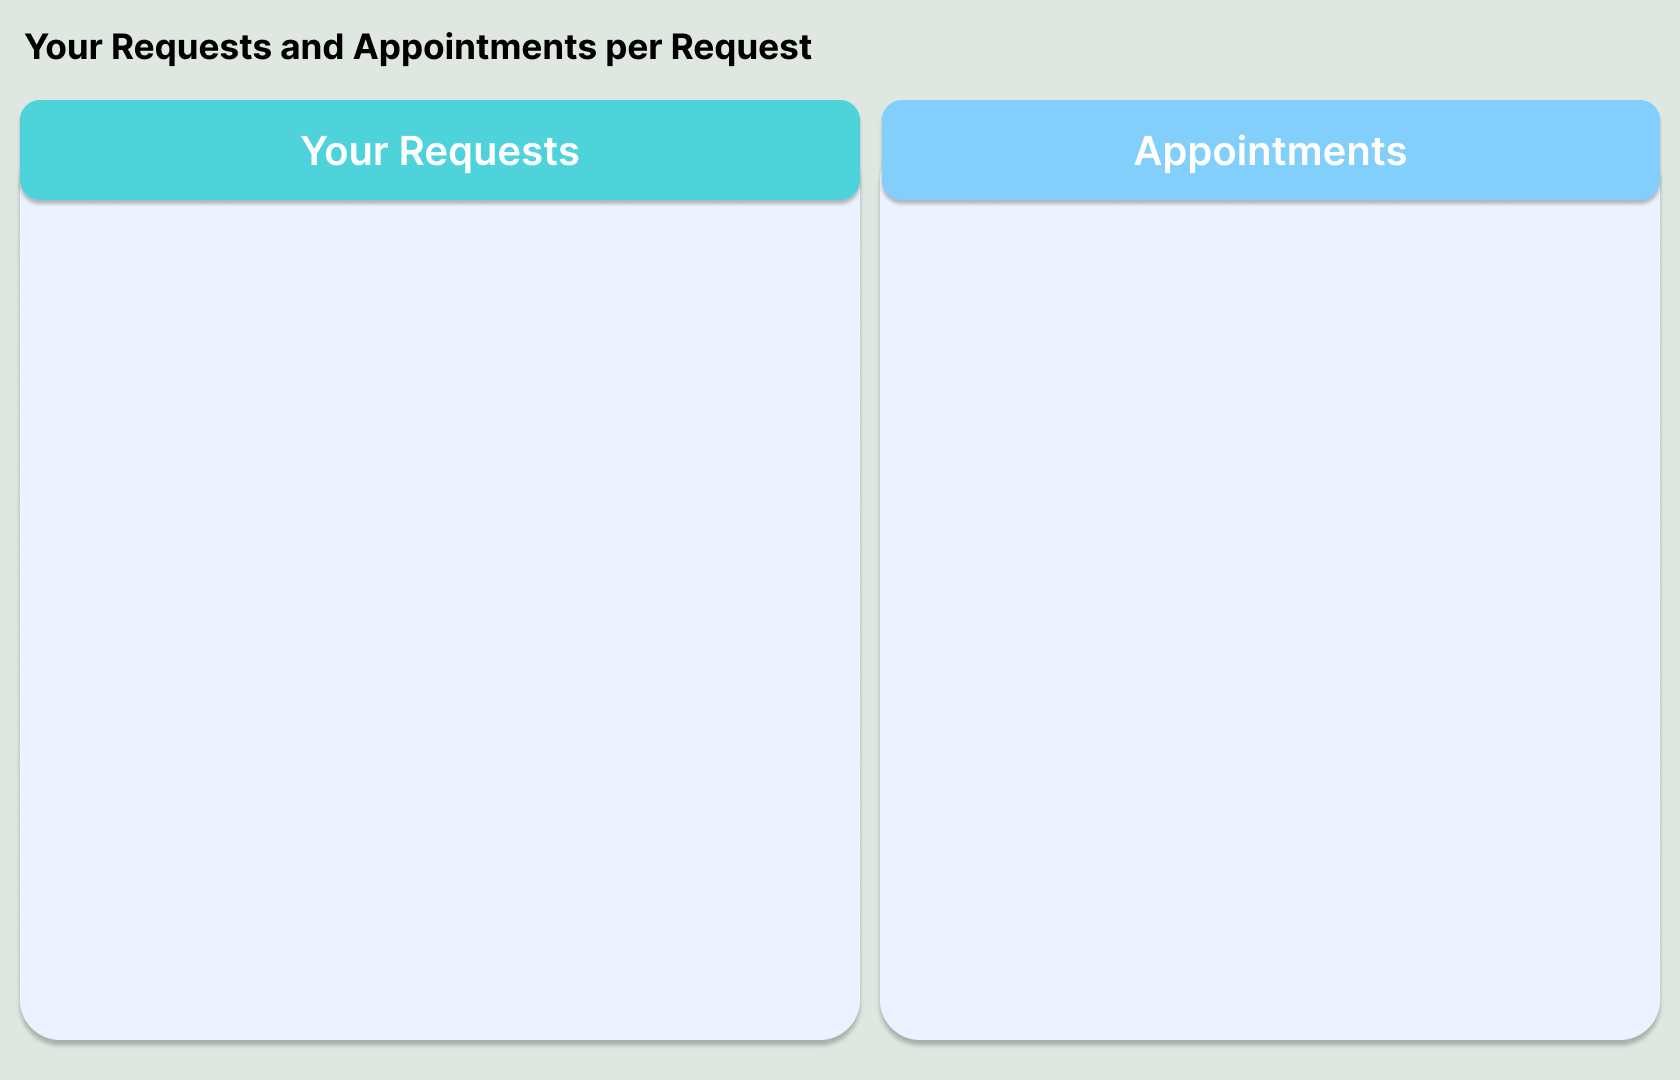
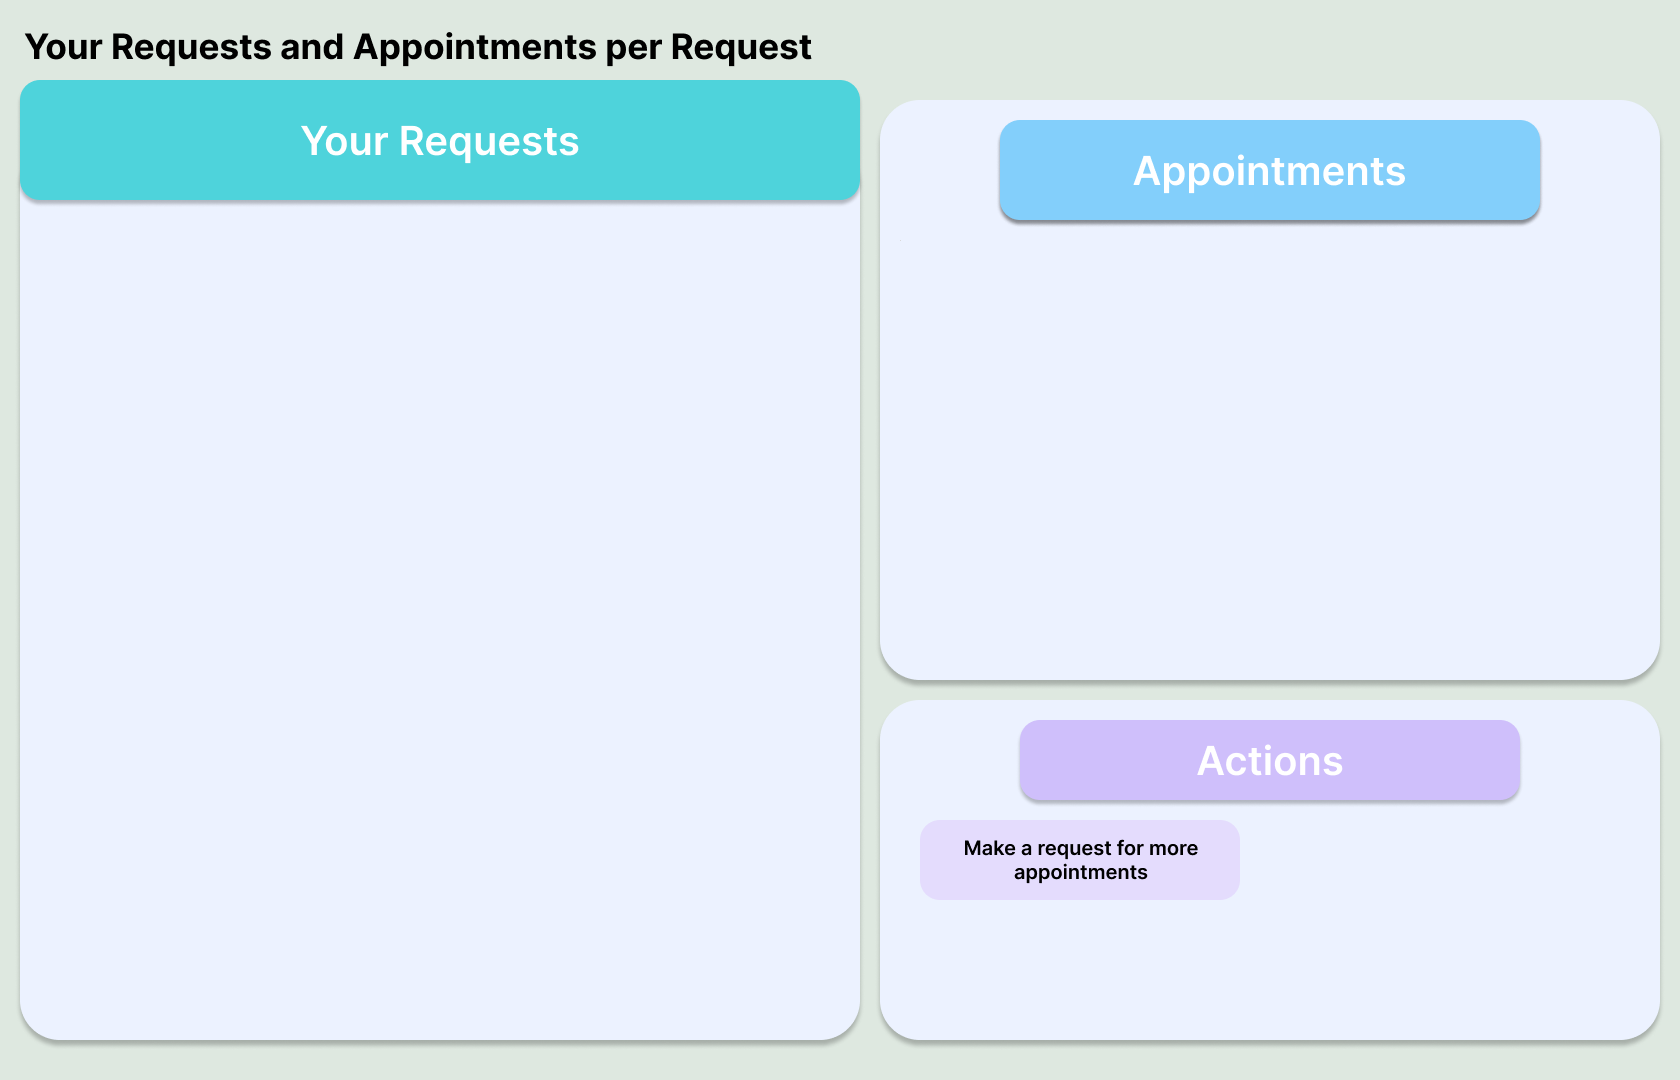
patient dashboard view app request

diff --git a/views/appointments/patientViewAppointments.py b/views/appointments/patientViewAppointments.py
@@ -40,6 +40,10 @@ class PatientViewAppointments(Frame):
 
     def createElements(self):
         self.createLabels()
+        self.createButtons()
+
+    def reloadPage(self):
+        self.loadAppRequests()
 
     def createLabels(self):
         self.controller.labelCreator(
@@ -47,15 +51,43 @@ class PatientViewAppointments(Frame):
             x=0, y=0, classname="appointmentspanelbg", root=self
         )
 
+    def createButtons(self):
+        self.reloadPageButton = self.controller.buttonCreator(
+            ipath="assets/Appointments/Patient/Refresh.png",
+            x=700, y=100, classname="view_apprequest_reload_page", root=self,
+            buttonFunction=lambda: [
+                self.controller.threadCreator(
+                    target=self.reloadPage
+                )
+            ],
+        )
+
     def loadAppRequests(self):
+        prisma = self.prisma
         self.patient = self.parent.primarypanel.patient
-        height = len(self.patient.madeAppRequests) * 320
+        all_requests = prisma.appointmentrequest.find_many(
+            where={"patientId": self.patient.id},
+            include={
+                "clinic": True,
+                "appointments": {
+                    "include": {
+                        "doctor": {
+                            "include": {
+                                "user": True,
+                            }
+                        },
+                        "prescription": True,
+                    }
+                },
+            },
+        )
+        height = len(all_requests) * 320
         self.appRequestScrolledFrame = self.controller.scrolledFrameCreator(
             x=20, y=220, width=840, maxheight=height, minheight=780,
             root=self
         )
         COORDS = (20, 20)
-        for req in self.patient.madeAppRequests:
+        for i, req in list(enumerate(all_requests)):
             X = COORDS[0]
             Y = COORDS[1]
             R = self.appRequestScrolledFrame
@@ -68,6 +100,14 @@ class PatientViewAppointments(Frame):
                 isPlaced=True,
                 # buttonFunction=lambda req=req: self.loadSingleAppointment(
                 #     req),
+            )
+            self.controller.scrolledTextCreator(
+                x=X+260, y=Y, width=60, height=40, root=R,
+                classname=f"req_number_{req.id}",
+                bg="#a8ebee", hasBorder=False,
+                text=f"#{i+1}", font=FONT, fg=BLACK,
+                isDisabled=True, isJustified=True,
+                hasVbar=False,
             )
             img = self.controller.decodingBase64Data(req.clinic.clinicImg)
             img = ImageOps.contain(img, (200, 200), Image.Resampling.BICUBIC)
@@ -152,13 +192,14 @@ class PatientViewAppointments(Frame):
                 ipath="assets/Appointments/Patient/ViewAppointments.png",
                 x=X+720, y=Y+20, classname=f"{req.id}_viewappointments", root=R,
                 isPlaced=True,
-                buttonFunction=lambda r=req: self.loadSingleAppointment(r),
+                buttonFunction=lambda r=req, i=i+1: self.viewApptsPerRequest(
+                    r, i),
             )
             self.controller.scrolledTextCreator(
                 x=X+735, y=Y+25, width=50, height=50, root=R,
                 classname=f"req_appointments_created_{req.id}",
-                bg=BG, hasBorder=False,
-                text=f"{len(req.appointments)}", font=FONT, fg=BLACK,
+                bg="#86cff5", hasBorder=False,
+                text=f"{len(req.appointments)}", font=FONT, fg=WHITE,
                 isDisabled=True, isJustified=True,
                 hasVbar=False,
             )
@@ -170,8 +211,97 @@ class PatientViewAppointments(Frame):
             )
             COORDS = (COORDS[0], COORDS[1] + 320)
 
-    def loadSingleAppointment(self, req: AppointmentRequest):
-        print(req.id)
+    def viewApptsPerRequest(self, req: AppointmentRequest, reqIndex: int):
+        height = len(req.appointments) * 220
+        self.appRequestScrolledFrame = self.controller.scrolledFrameCreator(
+            x=880, y=240, width=780, maxheight=height, minheight=400,
+            root=self
+        )
+        COORDS = (20, 0)
+        for i, appt in list(enumerate(req.appointments)):
+            X = COORDS[0]
+            Y = COORDS[1]
+            R = self.appRequestScrolledFrame
+            FONT = ("Inter", 14)
+            BG = "#ffffff"
+            DOC = appt.doctor
+            start_date = appt.startTime.strftime("%d/%m/%y")
+            end_date = appt.endTime.strftime("%d/%m/%y")
+            start_time = appt.startTime.strftime("%I:%M%p")
+            end_time = appt.endTime.strftime("%I:%M%p")
+            disp_date = f"{start_date} - {end_date}"
+            disp_time = f"{start_time} - {end_time}"
+            self.controller.labelCreator(
+                ipath="assets/Appointments/Patient/AppointmentBG.png",
+                x=X, y=Y, classname=f"{appt.id}_app_bg", root=R,
+                isPlaced=True,
+                # buttonFunction=lambda req=req: self.loadSingleAppointment(
+                #     req),
+            )
+            # Appointment Count
+            self.controller.scrolledTextCreator(
+                x=X+20, y=Y, width=620, height=40, root=R,
+                classname=f"appt_count_{appt.id}",
+                bg="#bbe6fd", hasBorder=False,
+                text=f"Appointment #{i+1} for Request #{reqIndex}", font=("Inter Bold", 15), fg=BLACK,
+                isDisabled=True, isJustified=True, justification="left",
+                hasVbar=False,
+            )
+
+            # Date
+            self.controller.scrolledTextCreator(
+                x=X+80, y=Y+40, width=180, height=60, root=R,
+                classname=f"appt_date_{appt.id}",
+                bg=BG, hasBorder=True, borderColor=BLACK,
+                text=disp_date, font=FONT, fg=BLACK,
+                isDisabled=True, isJustified=True, justification="left",
+                hasVbar=False,
+            )
+            # Time
+            self.controller.scrolledTextCreator(
+                x=X+340, y=Y+40, width=180, height=60, root=R,
+                classname=f"appt_time_{appt.id}",
+                bg=BG, hasBorder=True, borderColor=BLACK,
+                text=disp_time, font=("Inter", 12), fg=BLACK,
+                isDisabled=True, isJustified=True, justification="left",
+                hasVbar=False,
+            )
+            # Doctor Name
+            self.controller.scrolledTextCreator(
+                x=X+80, y=Y+120, width=180, height=60, root=R,
+                classname=f"appt_doctor_{appt.id}\n{DOC.speciality}",
+                bg=BG, hasBorder=True, borderColor=BLACK,
+                text=DOC.user.fullName, font=FONT, fg=BLACK,
+                isDisabled=True, isJustified=True, justification="left",
+                hasVbar=False,
+            )
+            # Status Of Appointment
+            self.controller.scrolledTextCreator(
+                x=X+340, y=Y+120, width=180, height=60, root=R,
+                classname=f"appt_status_{appt.id}",
+                bg=BG, hasBorder=True, borderColor=BLACK,
+                text=appt.status, font=FONT, fg=BLACK,
+                isDisabled=True, isJustified=True, justification="left",
+                hasVbar=False,
+            )
+            # Go to Prescriptions for this Appointment
+            self.controller.buttonCreator(
+                ipath="assets/Appointments/Patient/ViewPrescriptions.png",
+                x=X+660, y=Y+50, classname=f"{appt.id}_viewprescriptions", root=R,
+                isPlaced=True,
+                buttonFunction=lambda a=appt: self.viewPrescriptions(a),
+            )
+            self.controller.scrolledTextCreator(
+                x=X+675, y=Y+55, width=50, height=50, root=R,
+                classname=f"appt_prescriptions_{appt.id}",
+                bg="#ccc3f7", hasBorder=False,
+                text=f"{len(appt.prescription)}", font=FONT, fg=WHITE,
+                isDisabled=True, isJustified=True,
+                hasVbar=False,
+            )
 
     def cancelRequest(self, req: AppointmentRequest):
         print(req.id)
+
+    def viewPrescriptions(self, appt: Appointment):
+        self.parent.primarypanel.loadViewPatients()

diff --git a/views/dashboard/patientDashboard.py b/views/dashboard/patientDashboard.py
@@ -15,6 +15,7 @@ from tkinter import messagebox
 from prisma.models import Patient
 import tkintermapview
 from pendulum import timezone
+from PIL import Image, ImageTk, ImageOps
 from ttkbootstrap.constants import *
 from ttkbootstrap.dialogs import Messagebox, MessageDialog, Querybox
 from ttkbootstrap.dialogs.dialogs import DatePickerDialog
@@ -62,7 +63,11 @@ class PatientDashboard(Frame):
                         "clinic": True,
                         "appointments": {
                             "include": {
-                                "doctor": True,
+                                "doctor": {
+                                    "include": {
+                                        "user": True,
+                                    }
+                                },
                                 "prescription": True,
                             }
                         }
@@ -102,6 +107,7 @@ class PatientDashboard(Frame):
             buttonFunction=lambda: [self.loadViewAppointments()],
         )
         self.loadDashboardButtons()
+        self.load_latest_appointment_request()
 
     def loadDashboardButtons(self):
         CREATOR = self.controller.buttonCreator
@@ -147,18 +153,138 @@ class PatientDashboard(Frame):
                 R: self,
                 BF: lambda: [self.loadViewPatients()]
             },
-            "dash_manage_profile": {
-                IP: "assets/Dashboard/PatientAssets/PatientDashboard/ManageCallADoctorProfile.png",
-                X: 1180,
-                Y: 240,
-                CN: "dash_manage_profile",
-                R: self,
-                BF: lambda: [self.loadViewPatients()]
-            }
+            # "dash_manage_profile": {
+            #     IP: "assets/Dashboard/PatientAssets/PatientDashboard/ManageCallADoctorProfile.png",
+            #     X: 1180,
+            #     Y: 240,
+            #     CN: "dash_manage_profile",
+            #     R: self,
+            #     BF: lambda: [self.loadViewPatients()]
+            # }
         }
         for param in params:
             CREATOR(**params[param])
 
+    def load_latest_appointment_request(self):
+        prisma = self.prisma
+        app_req = prisma.appointmentrequest.find_many(
+            where={
+                "patientId": self.patient.id,
+            },
+            include={
+                "clinic": True,
+                "appointments": {
+                    "include": {
+                        "doctor": {
+                            "include": {
+                                "user": True,
+                            }
+                        },
+                        "prescription": True,
+                    }
+                }
+            },
+            order={"createdAt": "desc"},
+            take=1
+        )
+        req = app_req[0]
+        clinic = req.clinic
+        R = self
+        BG = "#ffffff"
+        FONT = ("Inter", 14)
+        img = self.controller.decodingBase64Data(req.clinic.clinicImg)
+        img = ImageOps.contain(img, (200, 200), Image.Resampling.BICUBIC)
+        self.clinicImage = self.controller.buttonCreator(
+            x=620, y=180, classname=f"dash_req_loadedclinic_image_{req.id}", root=R,
+            ipath="assets/BrowseClinic/Patient/BrowseSingleClinic/ClinicImagePlaceholder.png",
+            bg="#ffffff",
+            isPlaced=True,
+        )
+        self.controller.imageDict[f"dash_req_loadedclinic_image_{req.id}"] = ImageTk.PhotoImage(
+            img
+        )
+        newImage = self.controller.imageDict[f"dash_req_loadedclinic_image_{req.id}"]
+        self.clinicImage.configure(image=newImage, width=200, height=200)
+        self.clinicImage.place(x=620, y=180, width=200, height=200)
+
+        self.controller.scrolledTextCreator(
+            x=700, y=400, width=120, height=60, root=R,
+            classname=f"dash_req_loadedclinic_name_{req.id}",
+            bg=BG, hasBorder=False,
+            text=clinic.name, font=FONT, fg=BLACK,
+            isDisabled=True, isJustified=True,
+            hasVbar=False,
+        )
+        # # Status
+        self.controller.scrolledTextCreator(
+            x=940, y=400, width=120, height=60, root=R,
+            classname=f"dash_req_status_{req.id}",
+            bg=BG, hasBorder=False,
+            text=f"{req.reqStatus}", font=FONT, fg=BLACK,
+            isDisabled=True, isJustified=True, justification="left",
+            hasVbar=False,
+        )
+        # # Speciality Wanted & Additional Info
+        self.controller.scrolledTextCreator(
+            x=700, y=480, width=360, height=60, root=R,
+            classname=f"dash_req_speciality_{req.id}",
+            bg=BG, hasBorder=False,
+            text=f"{req.specialityWanted}\n{req.additionalInfo}", font=FONT, fg=BLACK,
+            isDisabled=True, isJustified=True, justification="left",
+            hasVbar=False,
+        )
+        # # Preferred Date
+        self.controller.scrolledTextCreator(
+            x=700, y=560, width=360, height=40, root=R,
+            classname=f"dash_req_preferred_date_{req.id}",
+            bg=BG, hasBorder=False,
+            text=f"{req.preferredDate}", font=FONT, fg=BLACK,
+            isDisabled=True, isJustified=True, justification="left",
+            hasVbar=False,
+        )
+        # Preferred Time
+        self.controller.scrolledTextCreator(
+            x=700, y=620, width=360, height=40, root=R,
+            classname=f"dash_req_preferred_time_{req.id}",
+            bg=BG, hasBorder=False,
+            text=f"{req.preferredTime}", font=FONT, fg=BLACK,
+            isDisabled=True, isJustified=True, justification="left",
+            hasVbar=False,
+        )
+        # Created Ago
+        KL = timezone("Asia/Kuala_Lumpur")
+        created = KL.convert(req.createdAt)
+        now = KL.convert(datetime.now())
+        timedelta = now - created
+        if timedelta.days > 0:
+            diffText = f"{timedelta.days} days ago"
+        elif timedelta.seconds//3600 > 0:
+            diffText = f"{timedelta.seconds//3600} hours ago"
+        elif timedelta.seconds//60 > 0:
+            diffText = f"{timedelta.seconds//60} minutes ago"
+        else:
+            diffText = f"{timedelta.seconds} seconds ago"
+        self.controller.scrolledTextCreator(
+            x=860, y=200, width=200, height=40, root=R,
+            classname=f"dash_req_created_ago_{req.id}",
+            bg=BG, hasBorder=False,
+            text=diffText, font=FONT, fg=BLACK,
+            isDisabled=True, isJustified=True,
+            hasVbar=False,
+        )
+        self.controller.buttonCreator(
+            ipath="assets/Dashboard/PatientAssets/PatientDashboard/ViewAppointmentsDashMiddle.png",
+            x=860, y=280, classname=f"dash_{req.id}_viewappointments", root=R,
+            isPlaced=True,
+        )
+        self.controller.scrolledTextCreator(
+            x=875, y=285, width=50, height=50, root=R,
+            classname=f"dash_req_appointments_created_{req.id}",
+            bg="#86cff5", hasBorder=False,
+            text=f"{len(req.appointments)}", font=FONT, fg=WHITE,
+            isDisabled=True, isJustified=True,
+            hasVbar=False,
+        )
     def loadBrowseClinic(self):
         try:
             self.mainInterface.primarypanel.grid()

diff --git a/views/browseClinic/patientBrowse.py b/views/browseClinic/patientBrowse.py
@@ -166,14 +166,17 @@ class PatientBrowseClinic(Frame):
             self.latitudes[clinic.id] = {}
             self.latitudes[clinic.id]["latitude"] = clinicCoordinates.latitude
             self.latitudes[clinic.id]["longitude"] = clinicCoordinates.longitude
-            self.clinicsMap.set_marker(
-                self.latitudes[clinic.id]["latitude"],
-                self.latitudes[clinic.id]["longitude"],
-                text=clinic.name,
-                command=lambda event, c=clinic: [
-                    self.doubleClickTracker(c)
-                ]
-            )
+            try:
+                self.clinicsMap.set_marker(
+                    self.latitudes[clinic.id]["latitude"],
+                    self.latitudes[clinic.id]["longitude"],
+                    text=clinic.name,
+                    command=lambda event, c=clinic: [
+                        self.doubleClickTracker(c)
+                    ]
+                )
+            except:
+                pass
             self.latitudes[clinic.id]["distance"] = round(GD((
                 self.latitudes[HOME]["latitude"], self.latitudes[HOME]["longitude"]
             ), (clinicCoordinates.latitude, clinicCoordinates.longitude)).km, 2)
